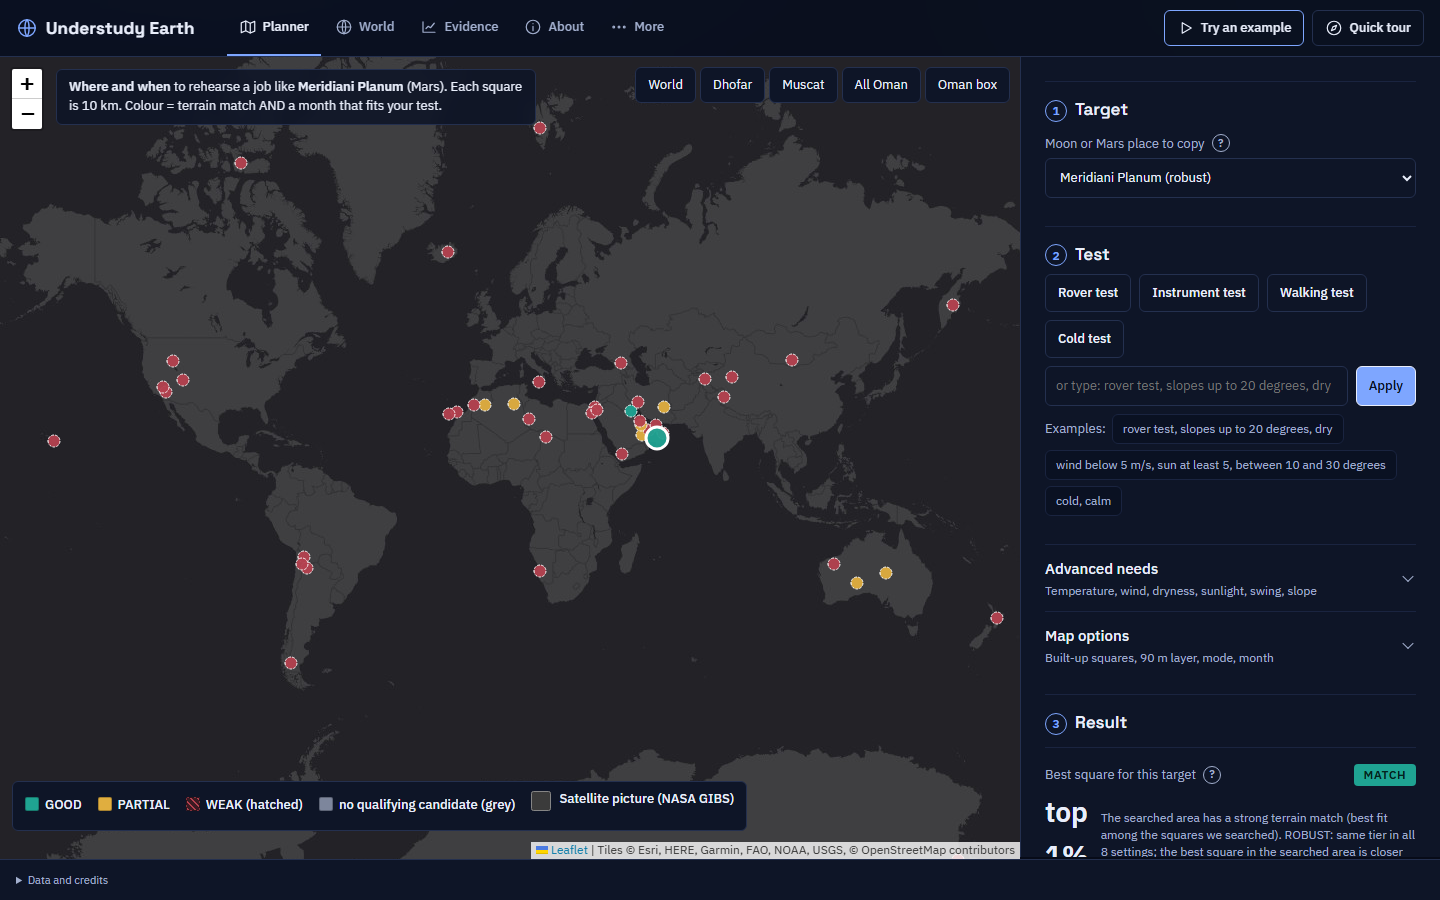
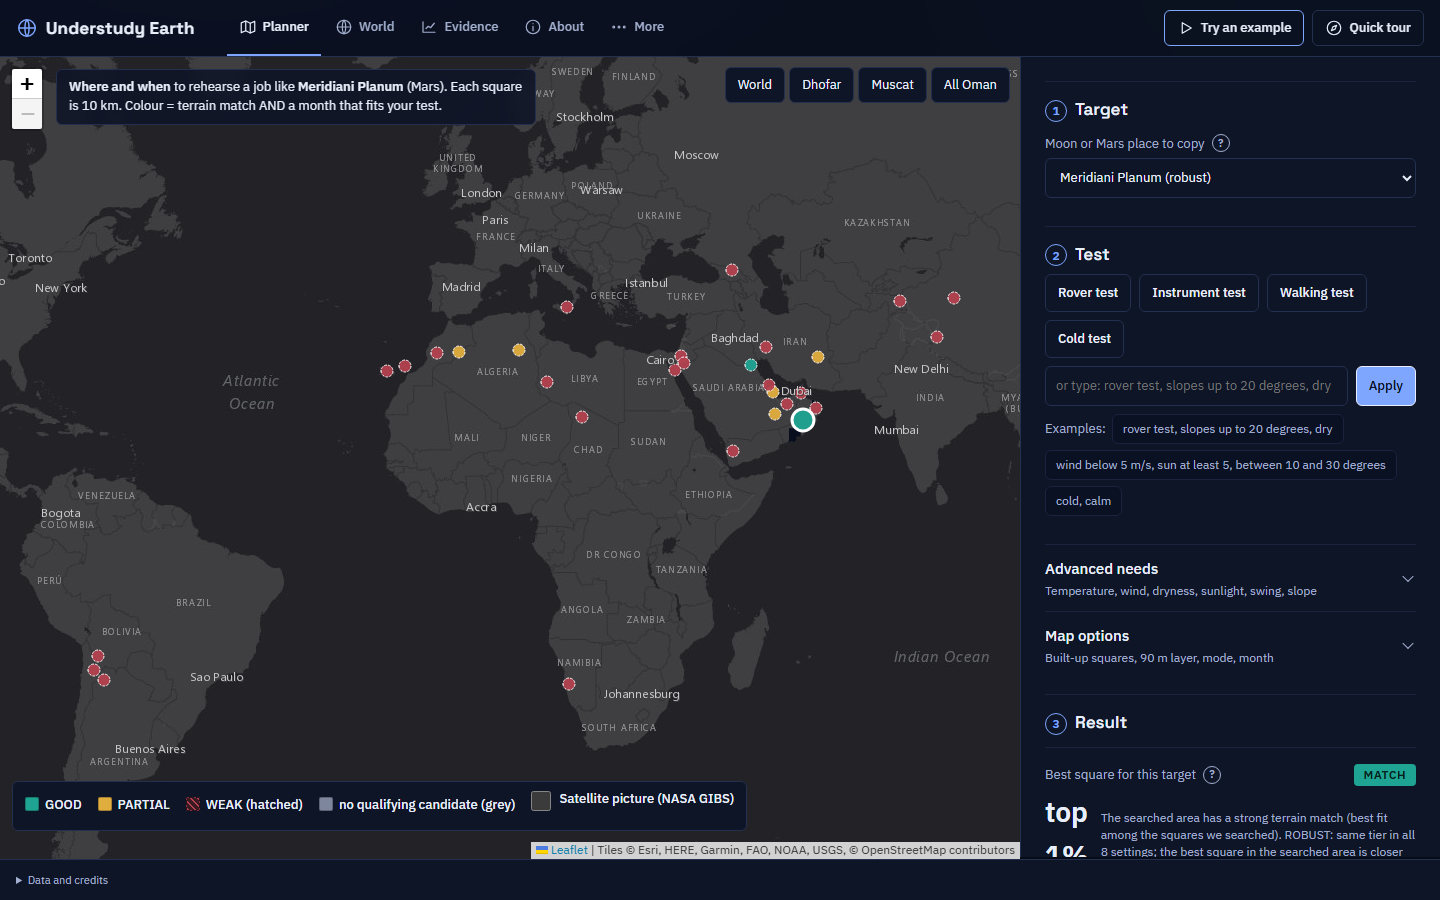
limit zoom-out to one world, no tile repeat, remove duplicate Oman box button

diff --git a/app/app.js b/app/app.js
@@ -65,13 +65,15 @@
   // English-label base map: Esri World Dark Gray base plus its English reference labels. If either fails to load, plain OpenStreetMap tiles replace them.
   function baseTiles(m, maxZ) {
     var esri = 'https://server.arcgisonline.com/ArcGIS/rest/services/Canvas/';
-    var base = L.tileLayer(esri + 'World_Dark_Gray_Base/MapServer/tile/{z}/{y}/{x}', { maxZoom: maxZ, maxNativeZoom: 16, attribution: 'Tiles &copy; Esri, HERE, Garmin, FAO, NOAA, USGS, &copy; OpenStreetMap contributors' }).addTo(m);
-    var lab = L.tileLayer(esri + 'World_Dark_Gray_Reference/MapServer/tile/{z}/{y}/{x}', { maxZoom: maxZ, maxNativeZoom: 16, pane: 'shadowPane' }).addTo(m), failed = false;
-    function fb() { if (failed) return; failed = true; m.removeLayer(base); m.removeLayer(lab); L.tileLayer('https://tile.openstreetmap.org/{z}/{x}/{y}.png', { maxZoom: maxZ, attribution: '&copy; OpenStreetMap contributors' }).addTo(m); }
+    var base = L.tileLayer(esri + 'World_Dark_Gray_Base/MapServer/tile/{z}/{y}/{x}', { maxZoom: maxZ, maxNativeZoom: 16, noWrap: true, attribution: 'Tiles &copy; Esri, HERE, Garmin, FAO, NOAA, USGS, &copy; OpenStreetMap contributors' }).addTo(m);
+    var lab = L.tileLayer(esri + 'World_Dark_Gray_Reference/MapServer/tile/{z}/{y}/{x}', { maxZoom: maxZ, maxNativeZoom: 16, noWrap: true, pane: 'shadowPane' }).addTo(m), failed = false;
+    function fb() { if (failed) return; failed = true; m.removeLayer(base); m.removeLayer(lab); L.tileLayer('https://tile.openstreetmap.org/{z}/{x}/{y}.png', { maxZoom: maxZ, noWrap: true, attribution: '&copy; OpenStreetMap contributors' }).addTo(m); }
     base.on('tileerror', fb);
   }
   function initMap() {
-    map = L.map('map', { zoomControl: true }).setView([20.3, 56.4], 6);
+    map = L.map('map', { zoomControl: true, maxBounds: [[-85, -180], [85, 180]], maxBoundsViscosity: 1, worldCopyJump: false }).setView([20.3, 56.4], 6);
+    function fitMin() { map.setMinZoom(Math.max(1, map.getBoundsZoom([[-60, -180], [80, 180]], true))); }
+    fitMin(); window.addEventListener('resize', function () { map.invalidateSize(); fitMin(); });
     baseTiles(map, 12);
     var gibsLayer = null;
     var gt = document.getElementById('gibs_toggle');
@@ -96,7 +98,7 @@
     var ctl = L.control({ position: 'topright' });
     ctl.onAdd = function () {
       var d = L.DomUtil.create('div', 'viewbtns');
-      d.innerHTML = '<button data-v="world">World</button><button data-v="dhofar">Dhofar</button><button data-v="muscat">Muscat</button><button data-v="all">All Oman</button><button data-v="oman">Oman box</button>';
+      d.innerHTML = '<button data-v="world">World</button><button data-v="dhofar">Dhofar</button><button data-v="muscat">Muscat</button><button data-v="all">All Oman</button>';
       L.DomEvent.disableClickPropagation(d);
       d.addEventListener('click', function (ev) { var v = ev.target.getAttribute('data-v'); if (v) map.fitBounds(state_views[v], { padding: [20, 20] }); });
       return d;
